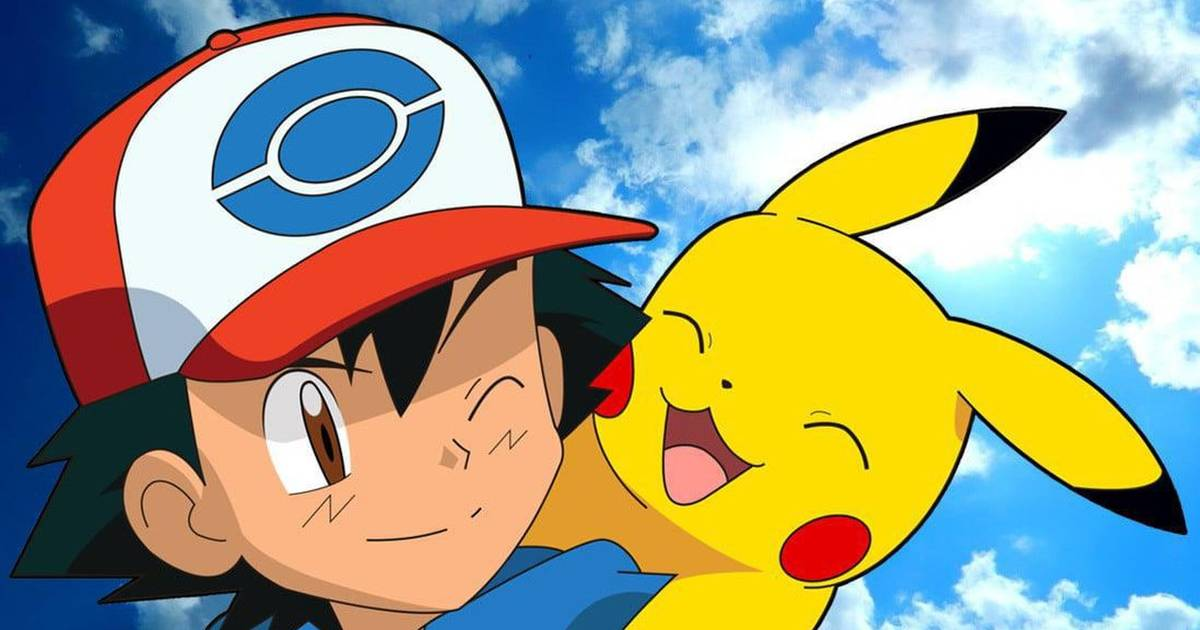
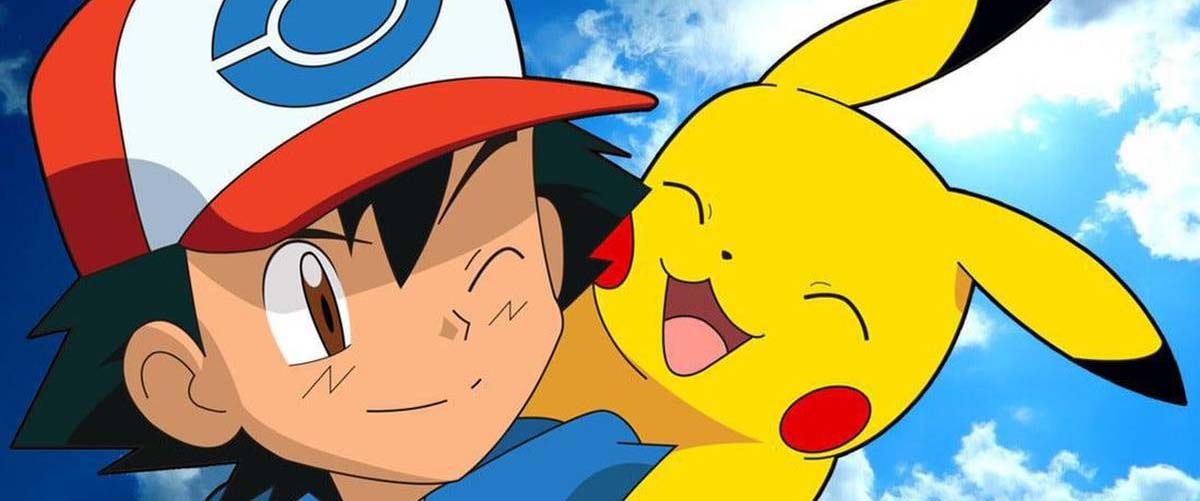
Ajustement dans le page du Pokemon

diff --git a/src/app/pokemon/[slug]/page.tsx b/src/app/pokemon/[slug]/page.tsx
@@ -64,7 +64,7 @@ export default function PokemonPage({ params }: PokemonPageParams) {
       return ( 
         <Grid container spacing={2} justifyContent="center" sx={{ mt: 2, mb: 2 }}>
         {evolutionName.map((name: any) => (
-          <Grid item key={name} xs={6} sm={6} md={3} lg={3}>
+          <Grid item key={name} xs={5} sm={5} md={3} lg={3}>
             <PokemonCard apiUrl={`https://pokeapi.co/api/v2/pokemon/${name}/`} imageSrc={""} />
           </Grid>
         ))}
@@ -84,7 +84,7 @@ export default function PokemonPage({ params }: PokemonPageParams) {
             <Typography color="text.primary">{params.slug}</Typography>
           </Breadcrumbs>
         </Box>
-        {/* Pokemon selecionado */}
+        {/* Selected Pokemon */}
         {pokemonData && (
                 <>
                   <Typography variant="h1">{pokemonData.name}</Typography>
@@ -94,29 +94,30 @@ export default function PokemonPage({ params }: PokemonPageParams) {
               )}
         <Grid container justifyContent="center">
           <Grid item xs={12} sm={4}>
-            <PokemonCard imageSrc={""} apiUrl={apiPokemonUrl} />
+            <PokemonCard imageSrc={""} apiUrl={apiPokemonUrl} showButton={false} />
           </Grid>
         </Grid>
-        {/* Imagens de evolução */}
+        {/* Image evolution */}
+        <Typography variant="h2" align="center" sx={{ mt: 4}}>Évolutions</Typography>
         <Grid container spacing={2}>
             <Grid>          
             {getCardsEvolution(evolutionData)}
           </Grid>
         </Grid>
-        <Grid container spacing={2}>
-          <Grid item xs={12} sx={{ mt: 2, mb: 4 }}>
+        {/* Informations du Pokémon */}
+        <Grid container spacing={2} justifyContent="center">
+          <Grid item xs={10} sx={{ mt: 2, mb: 4 }} >
             <Paper sx={{ p: 2 }}>
-              <Typography variant="h2">Informations du Pokémon</Typography>
+              <Typography variant="h3">Informations du Pokémon</Typography>
               {pokemonData && (
                 <ul>
                   <li>Numéro du Pokédex : {pokemonData.id}</li>
                   <li>Nom : {pokemonData.name}</li>
                   <li>Type : {pokemonData.types.map((type: any) => type.type.name).join(", ")}</li>
                   <li>Hauteur : {pokemonData.height} m</li>
-                  <li>Évolution : {getEvolutionText(evolutionData)}</li>
                 </ul>
               )}
-              <Typography variant="h2">Autres informations</Typography>
+              <Typography variant="h3">Autres informations</Typography>
               {pokemonData && (
                 <ul>
                   <li>Habilité : {pokemonData.abilities.map((ability: any) => ability.ability.name).join(", ")}</li>

diff --git a/src/components/pokemon/molecules/pokemon-card.tsx b/src/components/pokemon/molecules/pokemon-card.tsx
@@ -15,12 +15,12 @@ import PokemonCardButtom from "../atoms/PokemonCardButtom";
 export interface PokemonCardProps {
   apiUrl: string;
   imageSrc: string;
+  showButton?: boolean;
 }
 
 export default function PokemonCard(props: PokemonCardProps) {
   const [loading, setLoading] = useState<boolean>(true)
   const [pokemon, setPokemon] = useState<PokemonApi>()
-
 
   useEffect(() => {
     if(loading){
@@ -36,6 +36,18 @@ export default function PokemonCard(props: PokemonCardProps) {
       })
     }
   }, [loading, props.apiUrl])
+
+  function hiddenButton(): boolean {
+    console.log("hiddenButton");
+    if(props.showButton == undefined || props.showButton) {
+      console.log("true");
+      return true;
+    }
+    else  {
+      console.log("false");
+      return false;
+    }
+  }
 
   return (
     <Link href={pokemon?.name ? `/pokemon/${pokemon?.name}`: "#"}>
@@ -54,10 +66,12 @@ export default function PokemonCard(props: PokemonCardProps) {
             component="img"
             image={pokemon?.imageUrl}
             alt="green iguana"
-          />        
-          <CardContent sx={{ display: 'flex', justifyContent: 'center', alignItems: 'center'}}>
-            <PokemonCardButtom text={pokemon?.name} href={pokemon?.name ? `/pokemon/${pokemon?.name}`: "#"} />
-          </CardContent>
+          /> 
+            {hiddenButton() ? 
+              <CardContent sx={{ display: 'flex', justifyContent: 'center', alignItems: 'center'}}>
+                <PokemonCardButtom text={pokemon?.name} href={pokemon?.name ? `/pokemon/${pokemon?.name}`: "#"} />
+              </CardContent>  
+              : ''}
           </>
         )}     
         </CardActionArea>

diff --git a/src/components/molecules/banner/CarouselBanner.tsx b/src/components/molecules/banner/CarouselBanner.tsx
@@ -28,7 +28,7 @@ const CarouselBanner: React.FC = () => {
     },
     imageContainer: {
       width: '100%',
-      height: '100vh',
+      height: '70vh',
       position: 'relative',
       overflow: 'hidden',
     },
@@ -51,6 +51,7 @@ const CarouselBanner: React.FC = () => {
     nextButton: {
       right: theme.spacing(2),
     },
+
   };
 
   return (

diff --git a/src/app/page.tsx b/src/app/page.tsx
@@ -1,8 +1,6 @@
 
-import Image from 'next/image'
-
+import Image from 'next/image';
 import CarouselBanner from '../components/molecules/banner/CarouselBanner';
-
 import styles from "./page.module.css";
 import PokemonList from "@/components/pokemon/organisms/pokemon-list";
 import { getData } from "@/api/pokemon-api";

diff --git a/src/app/globals.css b/src/app/globals.css
@@ -18,7 +18,4 @@ a{text-decoration: none;
 }
 .css-i0bk1x-MuiPaper-root {
     padding: 3rem;
-    background-color: #cccccc !important;
-    /* background-color: #1976d2;
-    color: white; */
 }

diff --git a/src/app/page.module.css b/src/app/page.module.css
@@ -3,7 +3,7 @@
   flex-direction: column;
   justify-content: space-between;
   align-items: center;
-  padding: 6rem;
+  padding: 4rem 2rem;
   min-height: 100vh;
+  min-width: 730px;
 }
-
